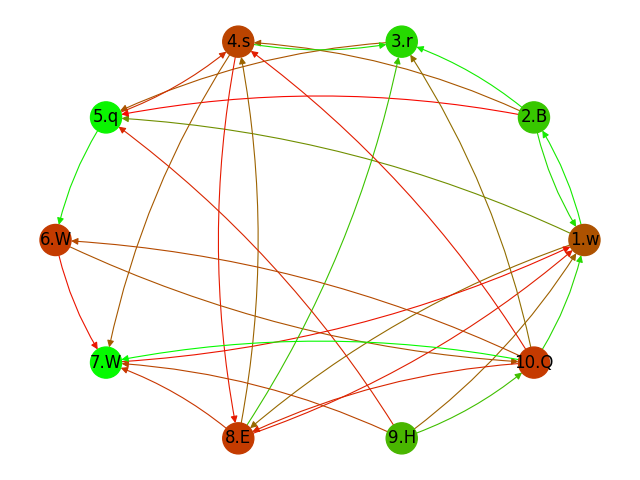
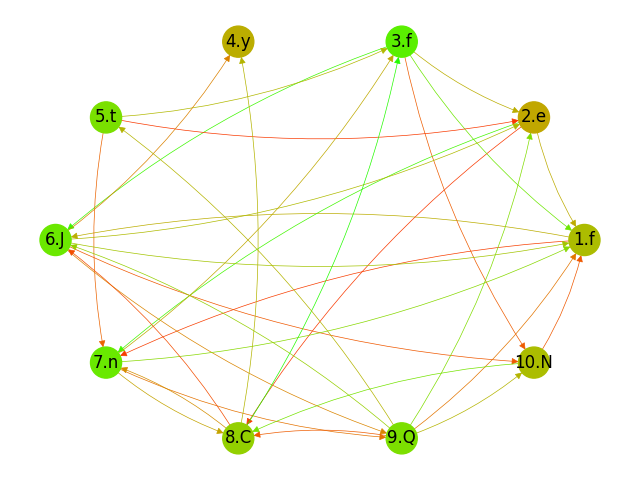
fix colors in graph

diff --git a/emergent_trust.py b/emergent_trust.py
@@ -1,7 +1,10 @@
+from math import sqrt
+
 import networkx as nx
 import matplotlib.pyplot as plt
 import seaborn as sns
 from matplotlib import colors
+from matplotlib.colors import LinearSegmentedColormap
 
 from main import (EmergentTrust, read_agents_from_csv, generate_agents_from_kt,
                   generate_trusts_from_kt, read_trusts_from_csv, read_interactions_from_csv)
@@ -25,9 +28,12 @@ def draw_heatmap(agents, name_of_file):
     # print(data)
     hm = sns.heatmap(data=data,
                      annot=True,
-                     cmap=colors.ListedColormap(
-                       ["red", "orange", "yellow", "green"]
-                     )
+                     # cmap=colors.ListedColormap(
+                     #   # [ "orange", "yellow", "green"]
+                     #     [ 'darkgreen',"green",'limegreen' ,
+                     #      'yellow', 'orange','darkorange' , "red",]
+                     # )
+                     cmap=LinearSegmentedColormap.from_list('red_green', ['r', 'y', 'g'], 256)
                      )
 
     # displaying the plotted heatmap
@@ -58,14 +64,12 @@ def draw_graph(agents, name_of_file):
         max_int = 10
     # Визуализируем граф с помощью цвета и толщины ребер, основанных на доверии
     pos = nx.circular_layout(G)
-    edge_widths = [8 * (u.get_interactions_by_id_count(v.ID) + 1) / max_int
+    edge_widths = [5 * (u.get_interactions_by_id_count(v.ID) + 1) / max_int
                    for u, v in G.edges()]
-    edge_colors = [(1 - G[u][v][0]['trust'], G[u][v][0]['trust'], 0) for u, v in G.edges()]
-    node_colors = [((1 - v.get_reputation()), v.get_reputation(), 0) for v in G.nodes()]
+    edge_colors = [(sqrt(1 - G[u][v][0]['trust']), sqrt(G[u][v][0]['trust']), 0) for u, v in G.edges()]
+    node_colors = [(sqrt(1 - v.get_reputation()), sqrt(v.get_reputation()), 0) for v in G.nodes()]
     nx.draw(G, pos, node_size=500, node_color=node_colors, with_labels=True,
-            edge_cmap=colors.ListedColormap(
-                       ["red", "yellow", "green"]
-                     ), edge_color=edge_colors, width=edge_widths,
+             edge_color=edge_colors, width=edge_widths,
             arrows=True, connectionstyle='arc3, rad = 0.1')
     plt.savefig("output/graph" + name_of_file)
     plt.show()
@@ -79,11 +83,11 @@ trusts = read_trusts_from_csv(agents)
 draw_heatmap(agents, "1.png")
 draw_graph(agents, "1.png")
 
-read_interactions_from_csv(agents, 0, 3000)
+read_interactions_from_csv(agents, 0, 3)
 draw_graph(agents, "2.png")
 draw_heatmap(agents, "2.png")
 
-read_interactions_from_csv(agents, 1000, 2000)
+read_interactions_from_csv(agents, 1, 2)
 draw_graph(agents, "3.png")
 draw_heatmap(agents, "3.png")
 
